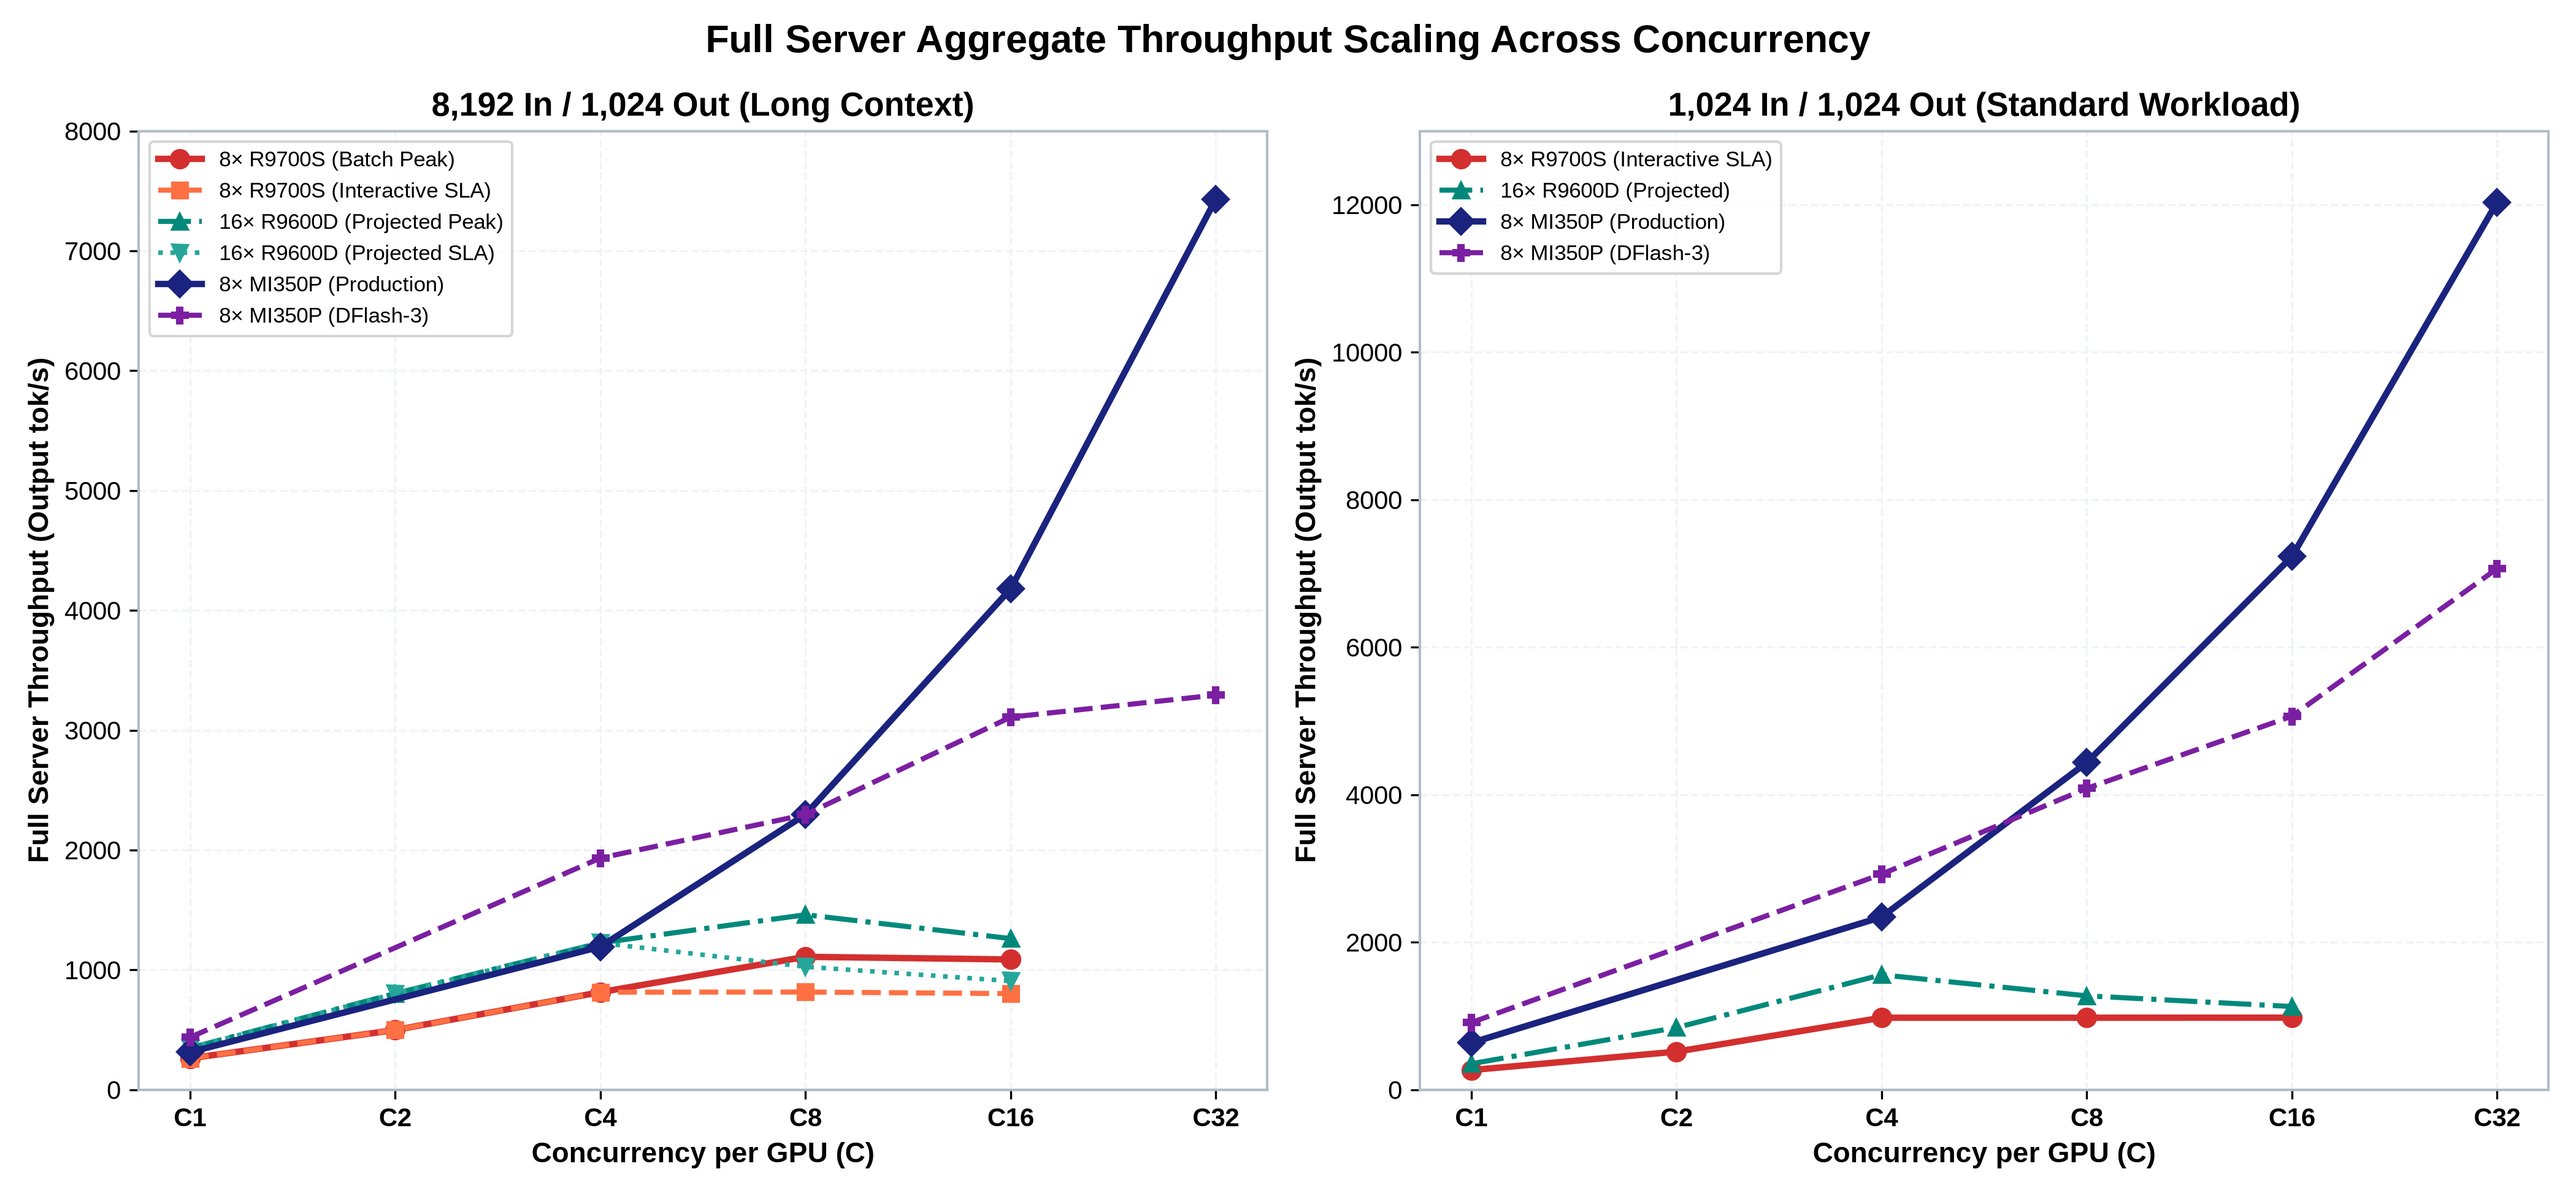
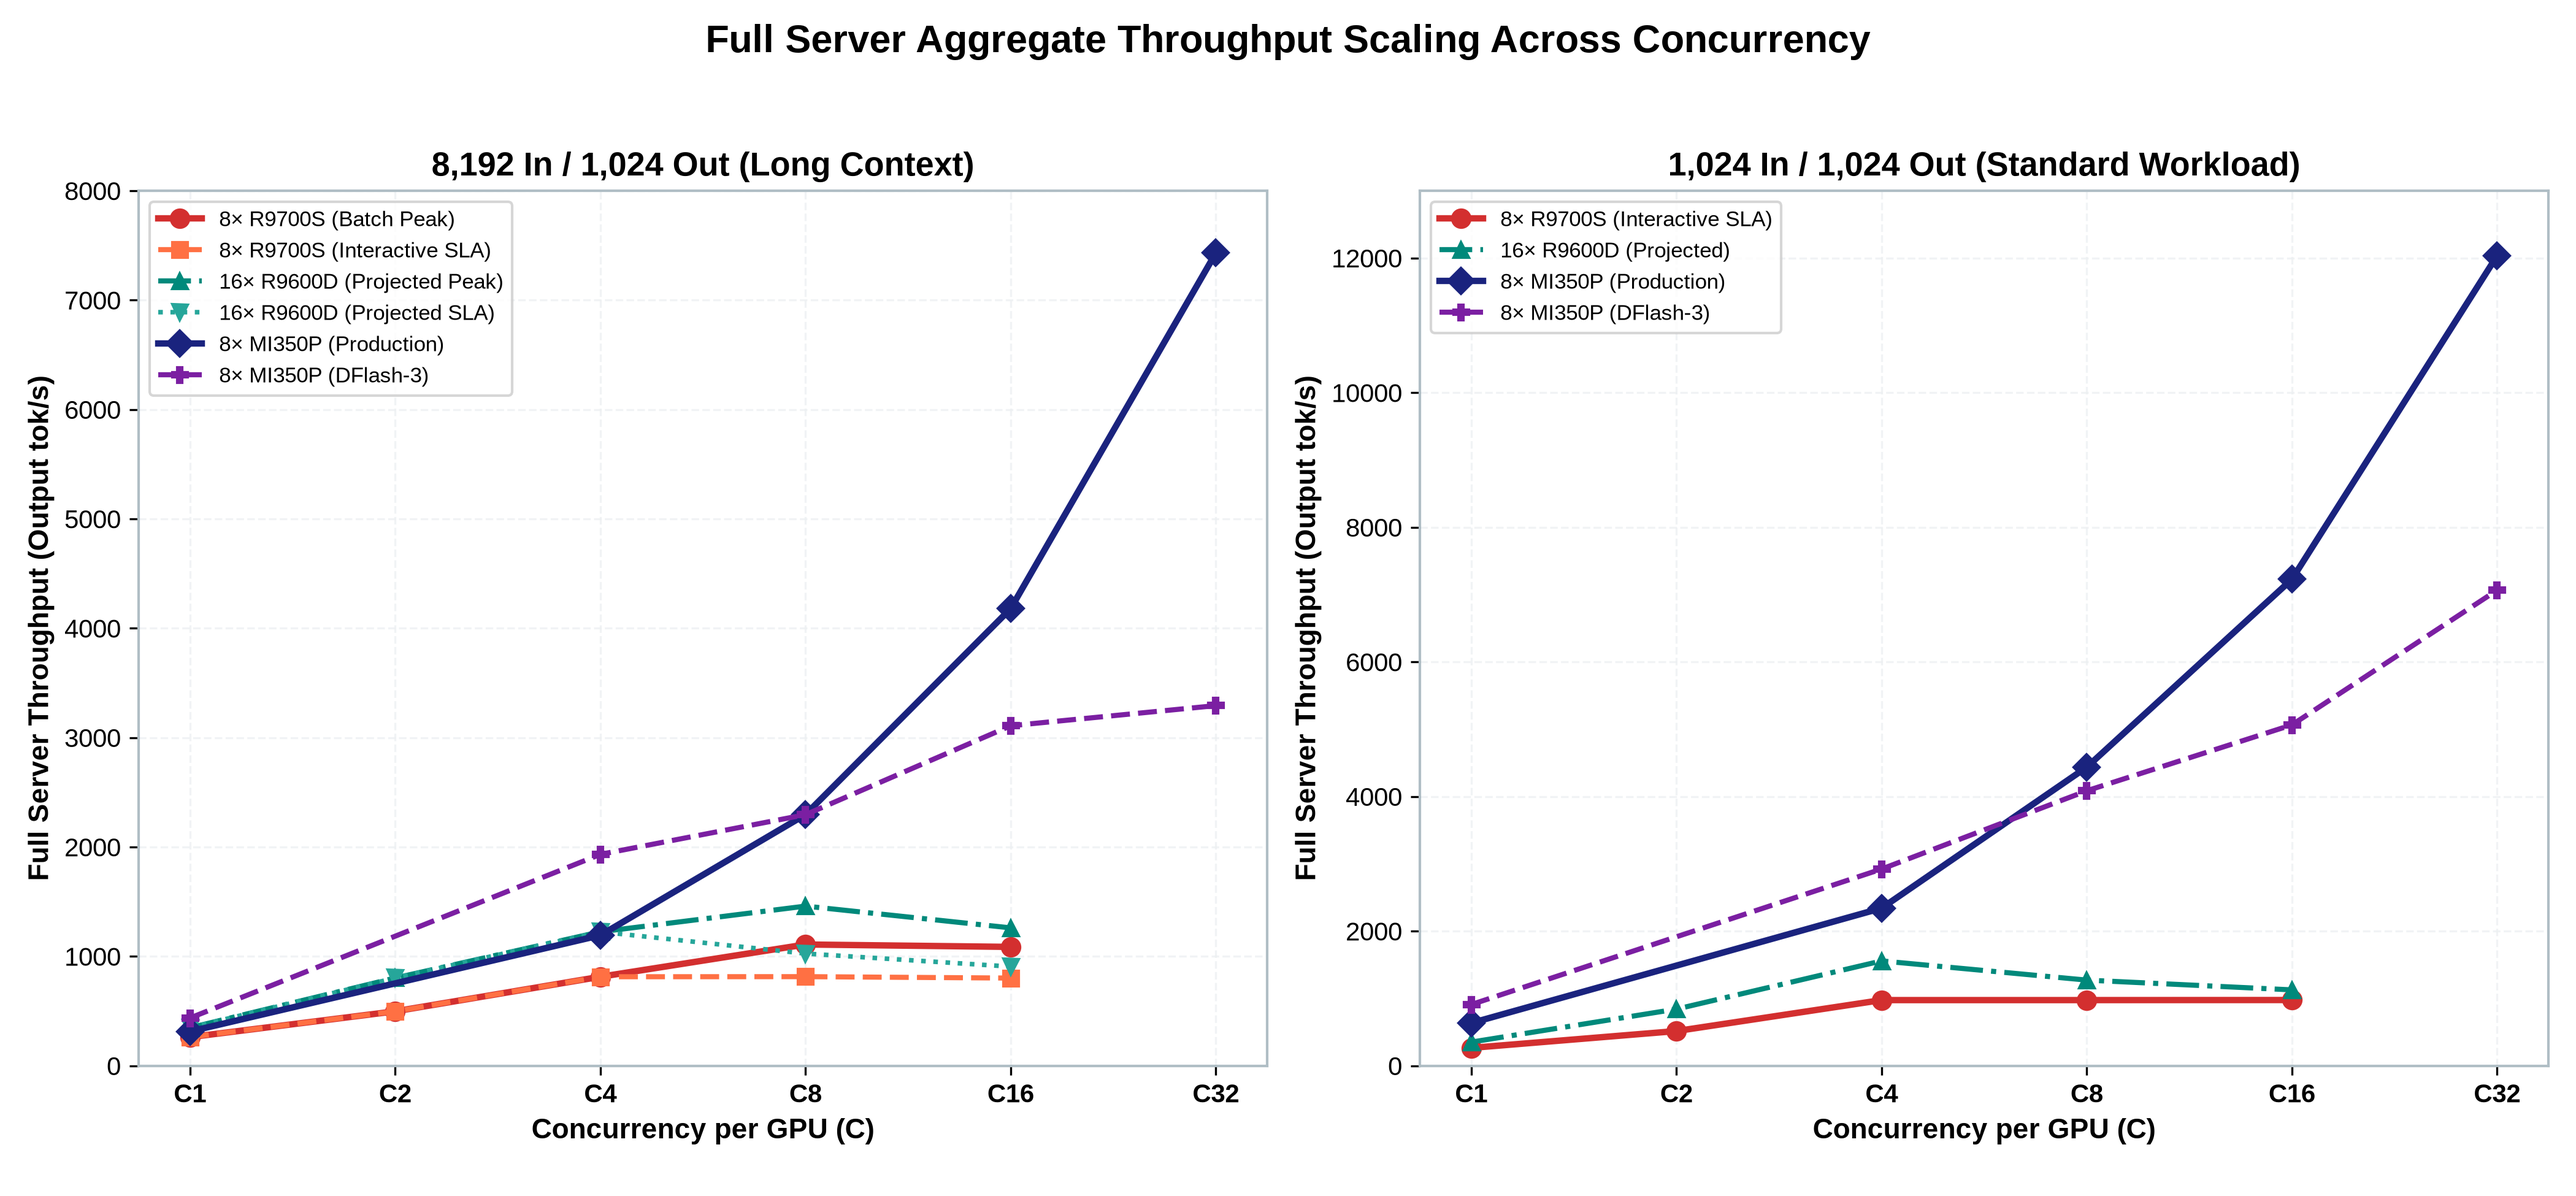
Add explicit x and y axis labels across all TCO presentation plots
- Add x-axis label ('Server Architecture & Hardware Fill') to capex & TCO stacked bar chart (01_tco_capex_breakdown.png).
- Add explicit x-axis and y-axis labels to all four panels in executive summary dashboard (05_tco_executive_summary_dashboard.png).
- Adjust subplot layouts, padding, and rect parameters in scripts/generate_tco_plots.py to ensure zero label crowding or collision.

diff --git a/scripts/generate_tco_plots.py b/scripts/generate_tco_plots.py
@@ -36,7 +36,7 @@ COLOR_RTX6000     = "#455A64"    # Slate Gray
 # PLOT 1: System Capex & 3-Year TCO Breakdown
 # ==============================================================================
 def plot_capex_and_tco():
-    fig, ax = plt.subplots(figsize=(11, 6.5), dpi=300)
+    fig, ax = plt.subplots(figsize=(11, 7.0), dpi=300)
     
     systems = [
         "8× R9700S\n(256GB DRAM)",
@@ -72,6 +72,7 @@ def plot_capex_and_tco():
         ax.text(x[i], ch_val / 2, f"${chassis_capex[i]:,}", ha='center', va='center', color='white', fontweight='bold', fontsize=10)
         ax.text(x[i], ch_val + gpu_val / 2, f"${gpu_capex[i]:,}", ha='center', va='center', color='white', fontweight='bold', fontsize=10)
     
+    ax.set_xlabel("Server Architecture & Hardware Fill", fontsize=13, fontweight='bold', labelpad=12)
     ax.set_ylabel("Total Cost ($ in Thousands)", fontsize=13, fontweight='bold', labelpad=10)
     ax.set_title("Server Fill Capex & 3-Year TCO Comparison (Qwen3.8-27B Serving)", fontsize=15, fontweight='bold', pad=15)
     ax.set_xticks(x)
@@ -277,7 +278,7 @@ def plot_throughput():
     ax2.legend(loc='upper left', frameon=True, fontsize=8.5)
     
     fig.suptitle("Full Server Aggregate Throughput Scaling Across Concurrency", fontsize=15, fontweight='bold', y=0.98)
-    plt.tight_layout()
+    plt.tight_layout(rect=[0, 0.02, 1, 0.95])
     output_path = os.path.join(OUTPUT_DIR, "04_aggregate_throughput.png")
     plt.savefig(output_path, dpi=300)
     plt.close()
@@ -287,7 +288,7 @@ def plot_throughput():
 # PLOT 5: Executive Dashboard (Combined 4-Panel Summary)
 # ==============================================================================
 def plot_executive_dashboard():
-    fig, ((ax1, ax2), (ax3, ax4)) = plt.subplots(2, 2, figsize=(16, 10), dpi=300)
+    fig, ((ax1, ax2), (ax3, ax4)) = plt.subplots(2, 2, figsize=(16, 11), dpi=300)
     
     # 1. Capex & TCO Bar Chart
     systems = ["8× R9700S", "16× R9600D", "8× RTX 6000", "8× MI350P"]
@@ -302,9 +303,11 @@ def plot_executive_dashboard():
     ax1.bar(x, power_3yr, w, bottom=chassis_capex + gpu_capex, label="3-Yr Power", color="#FFB300")
     for i in range(len(systems)):
         ax1.text(x[i], total_tco[i] + 4, f"${total_tco[i]:.1f}k", ha='center', va='bottom', fontweight='bold', fontsize=9.5)
-    ax1.set_title("A. System Capex & 3-Year TCO ($k)", fontsize=12, fontweight='bold')
+    ax1.set_title("A. System Capex & 3-Year TCO ($k)", fontsize=12, fontweight='bold', pad=8)
     ax1.set_xticks(x)
     ax1.set_xticklabels(systems, fontweight='bold', fontsize=10)
+    ax1.set_xlabel("Server Hardware Fill", fontsize=10.5, fontweight='bold', labelpad=6)
+    ax1.set_ylabel("Total Cost ($ in Thousands)", fontsize=10.5, fontweight='bold', labelpad=6)
     ax1.set_ylim(0, 255)
     ax1.grid(axis='y', linestyle='--', alpha=0.6)
     ax1.legend(loc='upper left', fontsize=8.5)
@@ -325,7 +328,9 @@ def plot_executive_dashboard():
     ax2.set_xscale('log', base=2)
     ax2.set_xticks([1, 2, 4, 8, 16, 32])
     ax2.set_xticklabels(["C1", "C2", "C4", "C8", "C16", "C32"], fontweight='bold', fontsize=9.5)
-    ax2.set_title("B. Serving Cost: 8,192 In / 1,024 Out ($ / M Tokens)", fontsize=12, fontweight='bold')
+    ax2.set_title("B. Serving Cost: 8,192 In / 1,024 Out ($ / M Tokens)", fontsize=12, fontweight='bold', pad=8)
+    ax2.set_xlabel("Concurrency per GPU (C)", fontsize=10.5, fontweight='bold', labelpad=6)
+    ax2.set_ylabel("Serving Cost ($ / Million Tokens)", fontsize=10.5, fontweight='bold', labelpad=6)
     ax2.set_ylim(0, 8.0)
     ax2.grid(True, which='both', linestyle='--', alpha=0.6)
     ax2.legend(loc='upper right', fontsize=8.5)
@@ -346,7 +351,9 @@ def plot_executive_dashboard():
     ax3.set_xscale('log', base=2)
     ax3.set_xticks([1, 2, 4, 8, 16, 32])
     ax3.set_xticklabels(["C1", "C2", "C4", "C8", "C16", "C32"], fontweight='bold', fontsize=9.5)
-    ax3.set_title("C. Serving Cost: 1,024 In / 1,024 Out ($ / M Tokens)", fontsize=12, fontweight='bold')
+    ax3.set_title("C. Serving Cost: 1,024 In / 1,024 Out ($ / M Tokens)", fontsize=12, fontweight='bold', pad=8)
+    ax3.set_xlabel("Concurrency per GPU (C)", fontsize=10.5, fontweight='bold', labelpad=6)
+    ax3.set_ylabel("Serving Cost ($ / Million Tokens)", fontsize=10.5, fontweight='bold', labelpad=6)
     ax3.set_ylim(0, 4.2)
     ax3.grid(True, which='both', linestyle='--', alpha=0.6)
     ax3.legend(loc='upper right', fontsize=8.5)
@@ -366,7 +373,9 @@ def plot_executive_dashboard():
     ax4.set_xscale('log', base=2)
     ax4.set_xticks([1, 2, 4, 8, 16, 32])
     ax4.set_xticklabels(["C1", "C2", "C4", "C8", "C16", "C32"], fontweight='bold', fontsize=9.5)
-    ax4.set_title("D. Aggregate Server Throughput: 8k:1k (tok/s)", fontsize=12, fontweight='bold')
+    ax4.set_title("D. Aggregate Server Throughput: 8k:1k (tok/s)", fontsize=12, fontweight='bold', pad=8)
+    ax4.set_xlabel("Concurrency per GPU (C)", fontsize=10.5, fontweight='bold', labelpad=6)
+    ax4.set_ylabel("Aggregate Throughput (tok/s)", fontsize=10.5, fontweight='bold', labelpad=6)
     ax4.set_ylim(0, 8000)
     ax4.grid(True, which='both', linestyle='--', alpha=0.6)
     ax4.legend(loc='upper left', fontsize=8.5)
@@ -375,7 +384,7 @@ def plot_executive_dashboard():
              bbox=dict(boxstyle="round,pad=0.3", facecolor="#E8EAF6", edgecolor="#3949AB"))
     
     fig.suptitle("AMD AI Accelerator TCO & Serving Performance Dashboard (Qwen3.8-27B MXFP4)", fontsize=16, fontweight='bold', y=0.98)
-    plt.tight_layout()
+    plt.tight_layout(rect=[0, 0.02, 1, 0.96])
     output_path = os.path.join(OUTPUT_DIR, "05_tco_executive_summary_dashboard.png")
     plt.savefig(output_path, dpi=300)
     plt.close()
